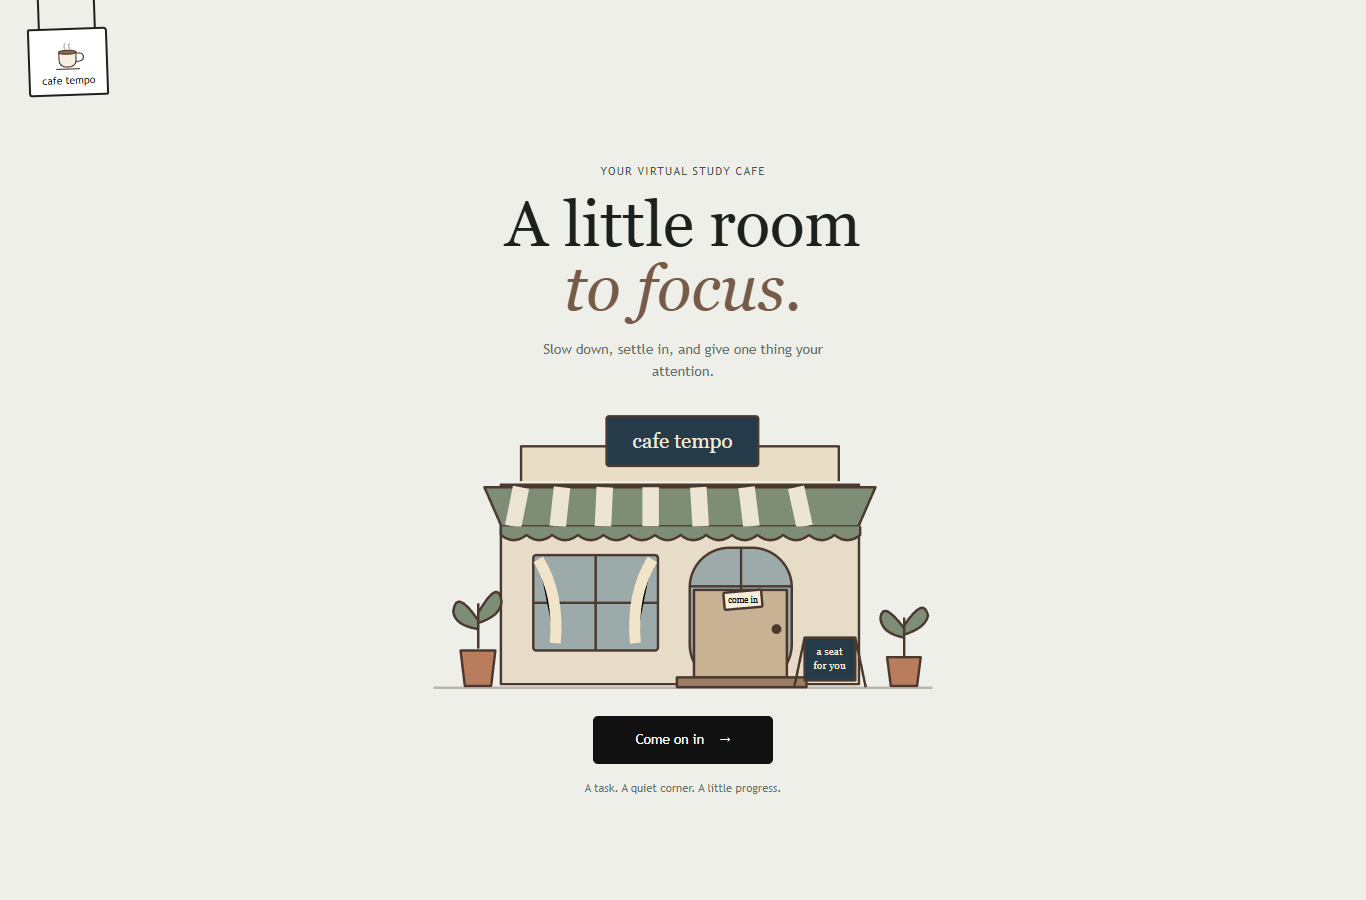
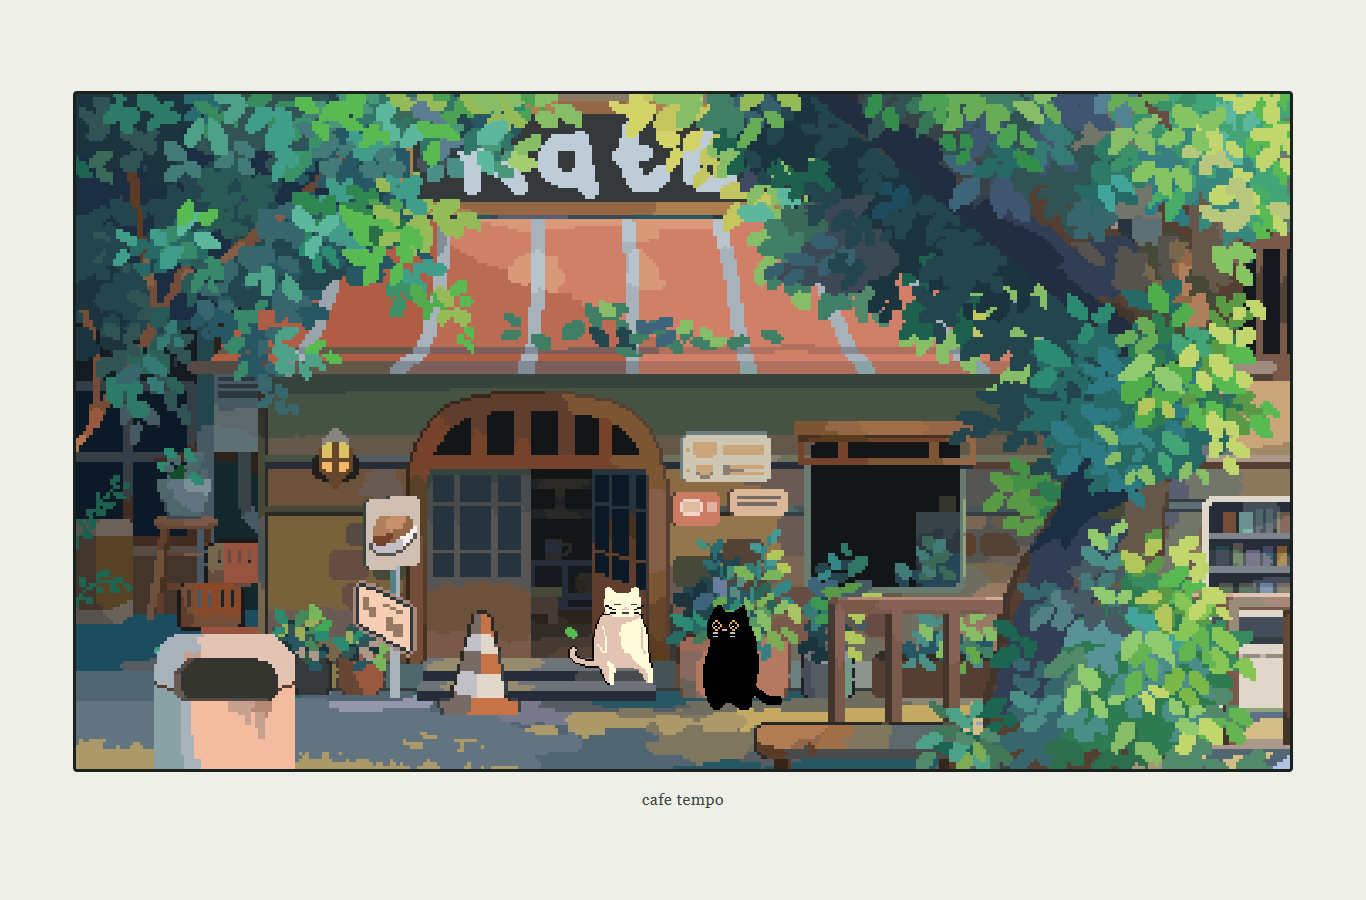
docs: refresh the animated entrance guide and screenshots
- Explain the image-based entry and its profile-selection destination
- Document where the supplied GIF and entrance styling live
- Capture desktop, hover and mobile presentations

diff --git a/README.md b/README.md
@@ -23,7 +23,7 @@ npm.cmd run dev
 
 Open **http://localhost:5173**. Use `localhost` so it matches the server's default CORS origin. The client defaults to `http://localhost:5000/api`. To change that address, copy `.env.example` to `.env` and edit `VITE_API_URL`; restart Vite afterward. Client environment variables are public, so never put database credentials here.
 
-Click **Come on in**, choose **Demo Student**, then start a study session. Use **Explore** to reach the study board, spaces, counter, reservations and notebook. Profile selection is not authentication. The existing backend has no password login; authentication is optional under the rubric and has not been implemented.
+Click the animated cafe entrance (hover or focus to see **ready to lock in?**), choose **Demo Student**, then start a study session. Use **Explore** to reach the study board, spaces, counter, reservations and notebook. Profile selection is not authentication. The existing backend has no password login; authentication is optional under the rubric and has not been implemented.
 
 ## What the draft supports
 

diff --git a/docs/REDESIGN.md b/docs/REDESIGN.md
@@ -1,5 +1,9 @@
 # A quieter cafe draft
 
+## Animated entrance
+
+The landing page uses the supplied cats-outdoor-cafe.gif, copied unchanged to public/assets/cafe-entrance.gif. The full image links to /welcome for demo profile selection. Hover and keyboard focus show “ready to lock in?”; touch devices show the invitation without hover. The separate Enter button and landing header are removed. The GIF path stays in assets.ts, and the entry presentation lives in entrance.css.
+
 ## Full-screen reference direction
 
 The setup and counter now use a large centered white sheet on an original SVG cafe tabletop. Small hanging signs replace the conventional header. The lobby fills the viewport, and the focus screen uses a large countdown, a cup, a curved white table and side arrows.
